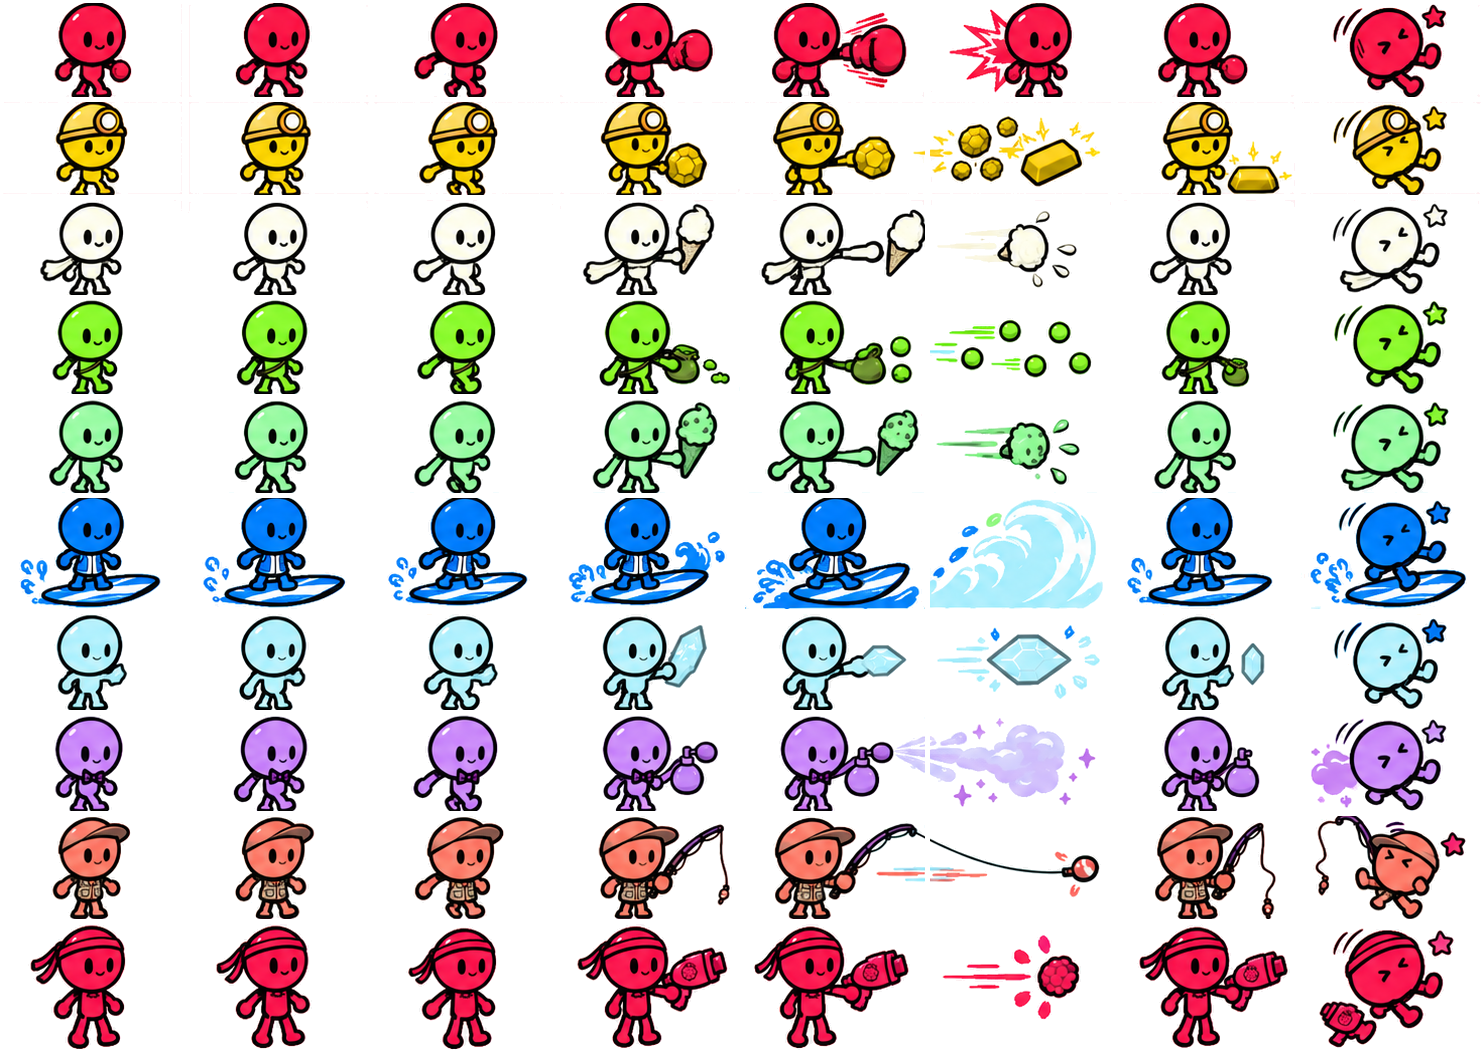
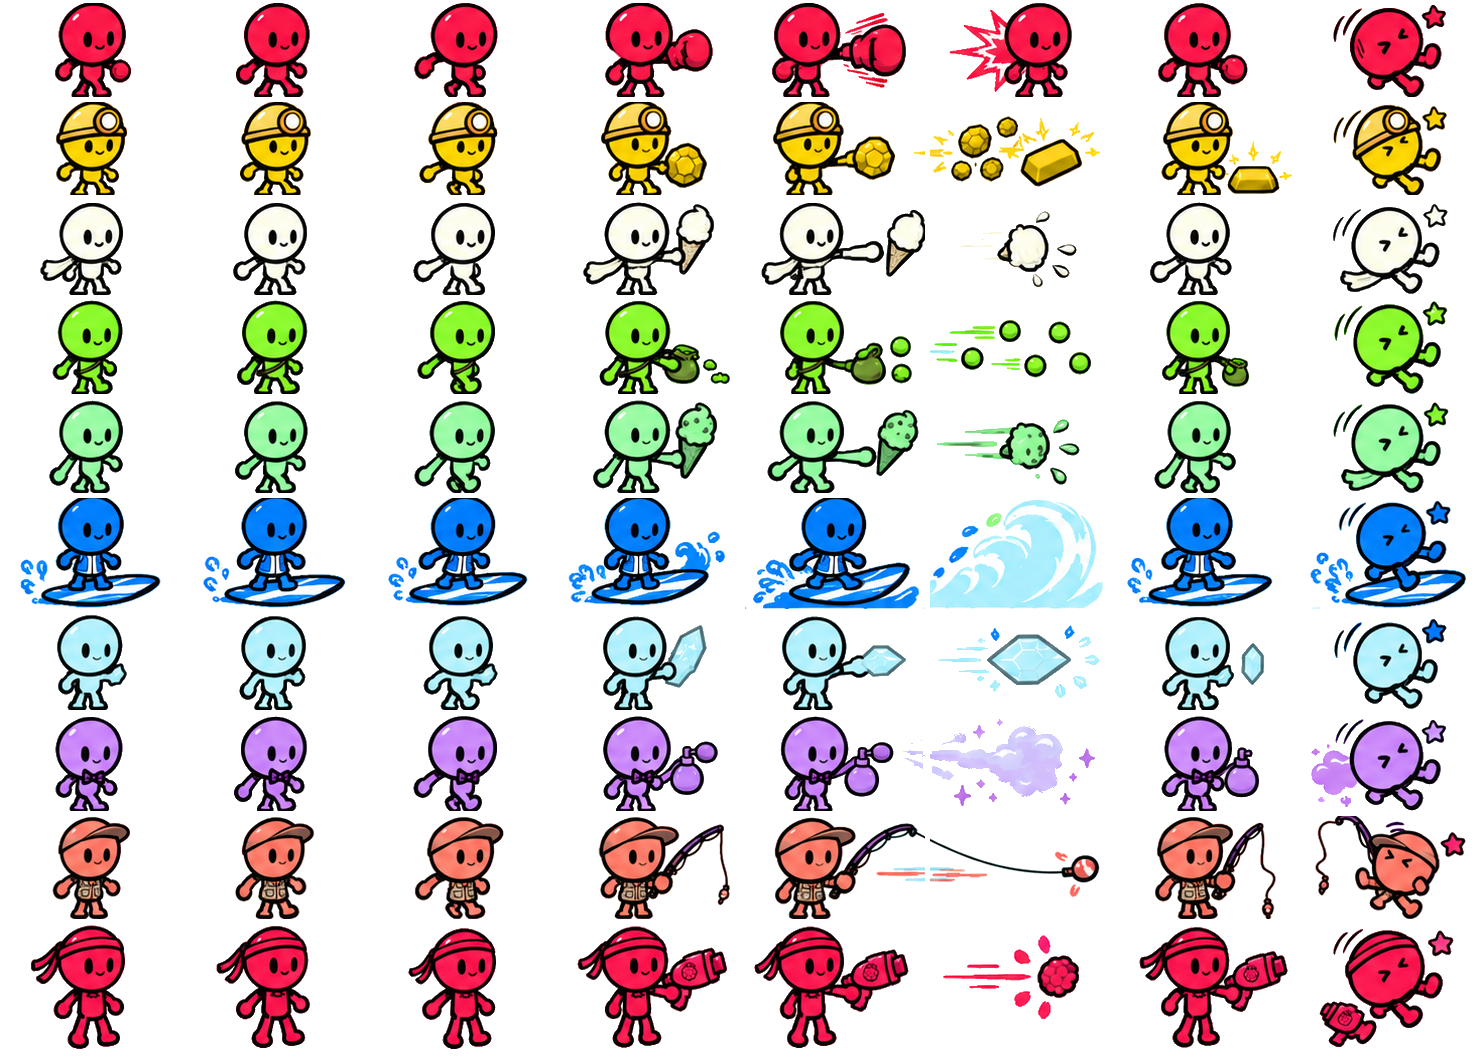
fix: 신규 10명 스프라이트 애니메이션 크롭·정렬·방향 오류 수정
- 1진: 넓은 임팩트 프레임에서 몸이 뒤로 최대 90px 튀던 문제를 프레임별 몸 기준 오프셋으로 보정
- 1진: 샤르트뢰즈/살몬 공격 프레임에 옆 프레임 조각이 끼던 크롭 경계 수정
- 2진: 시트 행 위치와 어긋난 좌표(민트~라즈베리 머리 잘림, 아래 캐릭터 침범) 재계산
- 2진: 오른쪽을 보던 시트를 좌우 반전해 진행 방향과 일치, 1진과 비슷한 크기로 조정
- 2진 시트의 흰 격자선·배경 잔재·외곽 흰 테두리 제거

Changed region(s): [[0.5889, 0.6849, 0.6819, 0.7472], [0.6509, 0.2179, 0.6819, 0.2491]]

diff --git a/game.js b/game.js
@@ -484,16 +484,16 @@ seal:{"scale": 0.78, "left": -22, "walk": [[1, 2, 112, 79], [116, 1, 111, 80], [
 croco:{"scale": 0.72, "left": -10, "walk": [[1, 28, 85, 42], [89, 28, 85, 42], [178, 28, 85, 42], [266, 28, 85, 42], [354, 28, 86, 42]], "attack": [[1, 98, 86, 40], [89, 70, 86, 69], [178, 70, 86, 69], [266, 70, 86, 69], [353, 102, 88, 37]], "hurt": [[89, 141, 86, 114]]},
 
  pigge:{scale:.8,left:-20,walk:[[4,1,103,77],[4,79,103,76],[4,157,103,76],[115,5,104,73],[112,80,109,76],[115,158,104,75]],attack:[[225,1,126,104],[225,107,126,67],[225,177,126,67]],hurt:[[355,3,124,65],[368,72,103,65]]},
- crimson:{scale:0.45,left:-30,sheet:CRIMSON_SHEET,walk:[[10,36,136,144],[234,36,136,143],[463,36,140,145]],attack:[[685,36,185,142],[900,36,220,142],[1186,36,138,143]],hurt:[[1401,36,166,150]],evolved:{sheet:NEWCHAR_EVOLVED_SHEET,walk:[[55,2,76,104],[235,2,74,104],[414,2,83,104]],attack:[[605,2,107,104],[772,2,133,104],[1158,3,89,103]],hurt:[[1333,4,112,93]]}},
- gold:{scale:0.36,left:-30,sheet:GOLD_SHEET,walk:[[16,268,166,175],[279,267,165,174],[545,267,170,176]],attack:[[799,258,237,185],[1055,267,331,173],[1458,267,167,176]],hurt:[[1707,267,261,185]],evolved:{sheet:NEWCHAR_EVOLVED_SHEET,walk:[[56,106,71,106],[239,106,71,106],[419,106,78,106]],attack:[[601,106,107,106],[773,106,145,106],[1161,106,118,106]],hurt:[[1333,106,114,106]]}},
- ivory:{scale:0.36,left:-30,sheet:IVORY_SHEET,walk:[[12,285,169,177],[271,285,169,176],[536,285,173,177]],attack:[[754,247,243,214],[1036,284,352,176],[1459,285,169,177]],hurt:[[1711,282,263,186]],evolved:{sheet:NEWCHAR_EVOLVED_SHEET,walk:[[40,212,83,106],[232,212,75,106],[413,212,82,106]],attack:[[583,212,131,106],[761,212,164,106],[1149,212,82,106]],hurt:[[1332,212,115,106]]}},
- chartreuse:{scale:0.45,left:-30,sheet:CHARTREUSE_SHEET,walk:[[46,36,140,151],[261,40,138,144],[472,33,146,154]],attack:[[682,36,146,151],[811,39,333,149],[1203,36,135,149]],hurt:[[1414,37,190,151]],evolved:{sheet:NEWCHAR_EVOLVED_SHEET,walk:[[52,318,70,106],[236,318,71,106],[417,318,78,106]],attack:[[599,318,130,106],[780,318,137,106],[1161,318,88,106]],hurt:[[1334,318,114,106]]}},
- mint:{scale:0.45,left:-30,sheet:MINT_SHEET,walk:[[52,44,130,141],[267,45,129,140],[474,44,135,141]],attack:[[669,33,175,152],[878,47,265,139],[1199,45,127,139]],hurt:[[1408,46,169,142]],evolved:{sheet:NEWCHAR_EVOLVED_SHEET,walk:[[49,424,74,106],[234,424,73,106],[414,424,81,106]],attack:[[593,424,124,106],[767,424,151,106],[1154,424,82,106]],hurt:[[1333,424,117,106]]}},
- azure:{scale:0.45,left:-30,sheet:AZURE_SHEET,walk:[[47,47,143,156],[253,52,141,149],[453,47,147,156]],attack:[[666,6,180,193],[862,8,320,208],[1226,45,141,155]],hurt:[[1411,47,198,154]],evolved:{sheet:NEWCHAR_EVOLVED_SHEET,walk:[[41,530,118,106],[224,530,120,106],[409,530,117,106]],attack:[[591,530,117,106],[784,530,125,106],[1148,530,123,106]],hurt:[[1338,530,127,106]]}},
- crystal:{scale:0.45,left:-30,sheet:CRYSTAL_SHEET,walk:[[48,36,142,153],[256,39,142,149],[464,36,144,153]],attack:[[679,36,163,152],[858,36,273,152],[1187,36,141,153]],hurt:[[1400,34,190,155]],evolved:{sheet:NEWCHAR_EVOLVED_SHEET,walk:[[56,636,70,106],[239,636,67,106],[423,636,74,106]],attack:[[602,636,74,106],[782,636,86,106],[1162,636,72,106]],hurt:[[1334,636,112,106]]}},
- lavender:{scale:0.45,left:-30,sheet:LAVENDER_SHEET,walk:[[52,36,138,151],[264,38,137,148],[471,36,142,151]],attack:[[682,36,167,151],[873,36,257,150],[1191,36,136,150]],hurt:[[1416,36,187,149]],evolved:{sheet:NEWCHAR_EVOLVED_SHEET,walk:[[55,742,75,106],[233,742,80,106],[413,742,90,106]],attack:[[599,742,125,106],[775,742,150,106],[1157,742,107,106]],hurt:[[1318,742,147,106]]}},
- salmon:{scale:0.45,left:-30,sheet:SALMON_SHEET,walk:[[52,72,130,142],[264,73,129,140],[455,73,133,142]],attack:[[649,7,192,207],[825,74,337,140],[1232,72,129,142]],hurt:[[1428,71,183,144]],evolved:{sheet:NEWCHAR_EVOLVED_SHEET,walk:[[46,848,78,106],[233,848,74,106],[415,848,80,106]],attack:[[590,848,139,106],[768,848,128,106],[1152,848,124,106]],hurt:[[1315,848,148,106]]}},
- raspberry:{scale:0.45,left:-30,sheet:RASPBERRY_SHEET,walk:[[38,35,139,151],[256,36,136,145],[476,34,142,152]],attack:[[664,37,195,149],[877,37,279,150],[1221,34,139,151]],hurt:[[1453,38,190,148]],evolved:{sheet:NEWCHAR_EVOLVED_SHEET,walk:[[30,954,95,95],[216,954,93,94],[408,954,88,95]],attack:[[577,954,149,93],[754,954,154,94],[1139,954,148,93]],hurt:[[1319,954,123,93]]}},
+ crimson:{scale:0.45,left:-30,sheet:CRIMSON_SHEET,walk:[[10,36,136,144,0],[234,36,136,143,0],[462,36,141,145,4]],attack:[[685,36,185,143,10],[900,36,220,143,86],[1186,36,138,143,3]],hurt:[[1401,36,167,150,27]],evolved:{sheet:NEWCHAR_EVOLVED_SHEET,flip:true,scale:0.7,left:-26,walk:[[55,3,76,94,0],[236,3,74,94,-5],[414,3,84,94,-5]],attack:[[605,3,108,94,34],[772,3,134,94,60],[1158,3,90,94,11]],hurt:[[1333,5,113,92,18]]}},
+ gold:{scale:0.36,left:-30,sheet:GOLD_SHEET,walk:[[15,267,168,177,0],[278,266,167,176,0],[544,266,172,178,3]],attack:[[798,257,239,187,7],[1054,266,333,175,165],[1457,266,169,178,1]],hurt:[[1706,266,263,187,30]],evolved:{sheet:NEWCHAR_EVOLVED_SHEET,flip:true,scale:0.7,left:-25,walk:[[56,102,71,93,0],[240,102,71,93,-1],[419,102,79,93,0]],attack:[[601,102,106,93,34],[773,102,152,93,81],[1161,102,131,93,58]],hurt:[[1333,104,114,91,22]]}},
+ ivory:{scale:0.36,left:-30,sheet:IVORY_SHEET,walk:[[11,284,171,179,0],[270,284,171,178,-1],[535,284,175,180,2]],attack:[[753,246,248,216,8],[1035,283,354,180,183],[1458,284,171,179,0]],hurt:[[1710,281,265,188,29]],evolved:{sheet:NEWCHAR_EVOLVED_SHEET,flip:true,scale:0.7,left:-28,walk:[[40,203,83,92,0],[233,203,74,92,-1],[413,203,82,92,0]],attack:[[583,202,131,93,45],[761,203,164,92,82],[1150,202,82,93,2]],hurt:[[1333,204,115,90,26]]}},
+ chartreuse:{scale:0.45,left:-30,sheet:CHARTREUSE_SHEET,walk:[[45,35,142,153,0],[260,39,140,146,0],[471,33,148,155,3]],attack:[[681,35,163,153,-3],[859,39,286,150,145],[1202,35,137,151,-4]],hurt:[[1413,37,191,152,7]],evolved:{sheet:NEWCHAR_EVOLVED_SHEET,flip:true,scale:0.7,left:-23,walk:[[52,300,71,94,0],[237,300,71,94,1],[417,301,78,93,0]],attack:[[599,301,131,93,60],[780,301,132,93,67],[1162,301,87,93,18]],hurt:[[1334,301,114,93,25]]}},
+ mint:{scale:0.45,left:-30,sheet:MINT_SHEET,walk:[[51,43,132,142,0],[266,44,131,142,-1],[473,43,137,143,4]],attack:[[668,33,176,153,37],[878,46,266,141,134],[1198,44,129,141,-2]],hurt:[[1407,45,170,143,9]],evolved:{sheet:NEWCHAR_EVOLVED_SHEET,flip:true,scale:0.7,left:-26,walk:[[49,400,74,93,0],[235,401,73,92,0],[414,401,81,92,1]],attack:[[593,400,124,93,47],[767,401,152,92,75],[1154,401,82,92,5]],hurt:[[1333,402,116,91,28]]}},
+ azure:{scale:0.45,left:-30,sheet:AZURE_SHEET,walk:[[46,47,144,157,0],[252,51,143,151,-1],[452,46,148,158,3]],attack:[[665,5,182,195,17],[861,7,322,210,38],[1226,44,141,157,-3]],hurt:[[1411,46,199,156,11]],evolved:{sheet:NEWCHAR_EVOLVED_SHEET,flip:true,scale:0.7,left:-47,walk:[[19,498,142,110,0],[203,498,143,110,2],[387,498,141,108,-3]],attack:[[568,498,159,108,19],[753,498,172,111,21],[1127,498,146,109,3]],hurt:[[1310,500,156,109,1]]}},
+ crystal:{scale:0.45,left:-30,sheet:CRYSTAL_SHEET,walk:[[47,35,144,155,0],[256,38,143,151,0],[463,35,146,155,2]],attack:[[678,35,165,154,-1],[857,35,274,154,132],[1186,35,143,155,0]],hurt:[[1399,33,191,157,8]],evolved:{sheet:NEWCHAR_EVOLVED_SHEET,flip:true,scale:0.7,left:-22,walk:[[57,615,70,95,0],[239,616,67,94,-5],[423,616,75,94,0]],attack:[[603,616,104,94,34],[782,616,124,94,54],[1162,617,102,93,29]],hurt:[[1334,619,113,90,18]]}},
+ lavender:{scale:0.45,left:-30,sheet:LAVENDER_SHEET,walk:[[51,35,140,153,0],[263,37,139,149,0],[470,35,144,153,4]],attack:[[681,35,169,153,0],[872,35,259,152,119],[1190,35,138,152,-1]],hurt:[[1416,35,188,151,5]],evolved:{sheet:NEWCHAR_EVOLVED_SHEET,flip:true,scale:0.7,left:-22,walk:[[55,717,68,94,0],[234,716,73,95,-1],[413,716,84,95,1]],attack:[[603,716,115,95,47],[780,716,145,95,77],[1161,716,98,95,27]],hurt:[[1311,719,135,92,23]]}},
+ salmon:{scale:0.45,left:-30,sheet:SALMON_SHEET,walk:[[51,72,131,143,0],[264,72,130,142,-2],[454,72,135,144,3]],attack:[[648,6,176,208,11],[824,74,339,141,207],[1231,71,131,143,-1]],hurt:[[1427,70,185,146,9]],evolved:{sheet:NEWCHAR_EVOLVED_SHEET,flip:true,scale:0.7,left:-28,walk:[[52,817,78,102,0],[235,817,80,102,1],[414,817,90,102,3]],attack:[[598,817,132,102,55],[774,817,151,102,73],[1155,817,121,102,43]],hurt:[[1315,816,151,103,27]]}},
+ raspberry:{scale:0.45,left:-30,sheet:RASPBERRY_SHEET,walk:[[37,34,141,152,0],[256,35,136,147,-3],[475,33,144,154,2]],attack:[[663,36,197,151,56],[877,36,279,151,139],[1221,33,140,153,-1]],hurt:[[1453,37,191,150,9]],evolved:{sheet:NEWCHAR_EVOLVED_SHEET,flip:true,scale:0.7,left:-31,walk:[[31,925,94,124,0],[216,926,94,122,0],[408,928,88,121,-1]],attack:[[577,926,150,122,57],[754,926,155,122,65],[1139,927,149,121,58]],hurt:[[1319,929,135,118,35]]}},
  guys:{scale:1,left:0,walk:[[30,40,43,32],[90,40,42,32],[150,40,43,32],[210,40,43,32],[270,40,43,32]],attack:[[30,100,43,32],[90,100,48,32],[150,100,51,32],[210,100,54,32],[270,87,63,45],[30,147,64,45],[100,154,56,38],[160,154,56,38],[220,161,43,31]],hurt:[[33,221,41,31]]},
  hippo:{scale:.9,left:-26,walk:[[1,24,105,78],[113,24,105,78],[226,24,104,78]],attack:[[337,4,99,98],[1,104,99,101],[113,118,110,87],[225,140,109,65],[338,127,104,78]]}
 };
@@ -526,10 +526,14 @@ function animateAtlas(u){
   index=Math.min(frames.length-1,Math.floor(elapsed/duration*frames.length));
  }else if(visualState==='attack'&&data.units[u.type].windup){const elapsed=duration-u.attackTime,windup=data.units[u.type].windup,strike={gory:2,baa:2,seal:4,croco:3}[u.type];if(strike!==undefined)index=elapsed<windup?Math.min(strike-1,Math.floor(elapsed/windup*strike)):Math.min(frames.length-1,strike+Math.floor((elapsed-windup)/Math.max(.01,duration-windup)*(frames.length-strike)));}
  if(state==='hurt'&&u.type==='gory')index=0;
- const [x,y,w,h]=frames[index];const sprite=u.el.querySelector('.dog-sprite');
+ // Optional 5th value: how far (sheet px) the body sits right of the crop's left edge
+ // compared to walk frame 0, so wide impact crops don't shove the body backwards.
+ const [x,y,w,h,ox=0]=frames[index];const sprite=u.el.querySelector('.dog-sprite');
+ const scale=atlas.scale??baseAtlas.scale,left=(atlas.left??baseAtlas.left)-ox*scale;
  sprite.style.backgroundPosition=`-${x}px -${y}px`;
- sprite.style.width=w+'px';sprite.style.height=h+'px';sprite.style.left=baseAtlas.left+'px';
- sprite.style.transform=`scale(${baseAtlas.scale})`;sprite.style.transformOrigin='left bottom';
+ sprite.style.width=w+'px';sprite.style.height=h+'px';sprite.style.left=left+'px';
+ // flip: the sheet faces right while allies march left; mirror inside the same box.
+ sprite.style.transform=atlas.flip?`translateX(${w*scale}px) scale(${-scale},${scale})`:`scale(${scale})`;sprite.style.transformOrigin='left bottom';
  sprite.style.filter=state==='hurt'&&!atlas.hurt?'brightness(1.8)':'none';
  u.el.dataset.animation=state;
 }

diff --git a/red-battle-doge.html b/red-battle-doge.html
@@ -12,5 +12,5 @@
   <div id="result" class="overlay hidden"><div class="result-card"><h1 id="resultTitle"></h1><p id="resultDetail"></p><button id="nextStageBtn">다음 스테이지</button> <button id="restartBtn">다시하기</button> <button id="resultStagesBtn">스테이지 선택</button></div></div>
 <section id="stageMenu" class="overlay hidden"><div class="stage-panel"><div class="stage-heading"><div><small>WORLD CHAPTER</small><h1>세계편</h1><p id="progressText"></p></div><div class="stage-heading-actions"><button id="codexBtn">도감</button><button id="resumeBtn">전투로 돌아가기</button></div></div><p class="stage-intro">한국에서 달까지.</p><section class="training"><h2>기지 강화</h2><p>같은 XP로 아군 성 체력을 최대 Lv.10까지 강화합니다. 레벨당 체력 +10%.</p><div id="baseGrid"></div></section><section class="training"><h2>캐릭터 강화 <small id="xpText"></small></h2><p>클리어 보상 XP로 최대 Lv.10까지. 레벨당 체력·공격력 +10%.</p><p id="deckText"></p><div id="trainingGrid"></div><p id="saveWarning" role="status"></p></section><div class="codex-tabs"><button id="chapter1Tab" class="codex-tab active">세계편 1장</button><button id="chapter2Tab" class="codex-tab">세계편 2장</button></div><p id="chapterNote" class="stage-intro"></p><div id="stageGrid"></div><p class="stage-note">스테이지 순서는 냥코 세계편 기준입니다. 적 종류는 세계편 1장 지역별 구성을 참고합니다. 출현 시간·보스 조건·전투 수치는 프로토타입 전용입니다. 진행도는 이 브라우저에 저장됩니다.</p></div></section>
 <section id="codexMenu" class="overlay hidden"><div class="codex-panel"><div class="codex-heading"><h1>도감</h1><div class="codex-tabs"><button id="codexAllyTab" class="codex-tab active">아군 도감</button><button id="codexEnemyTab" class="codex-tab">적 도감</button></div><button id="codexCloseBtn">닫기</button></div><div class="codex-body"><div class="codex-preview"><div id="codexPreviewStage" class="codex-preview-stage"></div><button id="codexEvolveToggle" class="codex-evolve-toggle hidden">2진 진화 보기</button></div><div class="codex-info"><h2 id="codexName"></h2><p id="codexRole" class="codex-role"></p><p id="codexDesc" class="codex-desc"></p><dl id="codexStats" class="codex-stats"></dl></div></div><div id="codexGrid" class="codex-grid"></div></div></section>
-</main><script src="game.js?v=8"></script>
+</main><script src="game.js?v=9"></script>
 </body></html>
